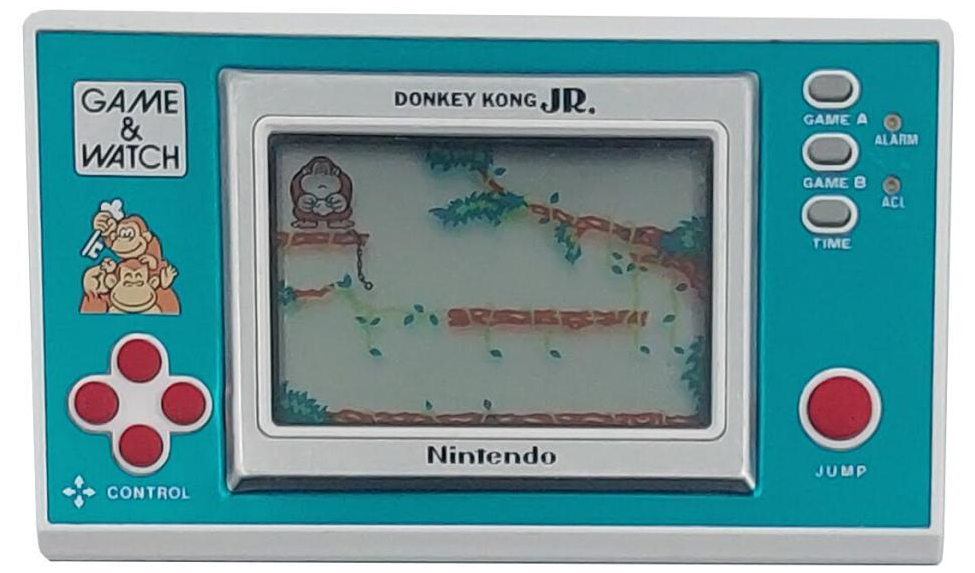
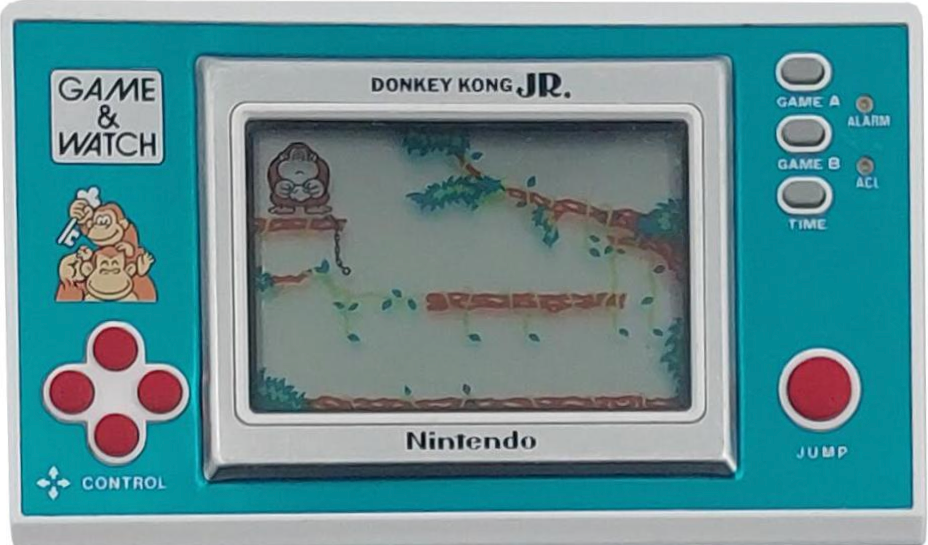
Adjustment to device image + lcd overlay

diff --git a/main.py b/main.py
@@ -41,6 +41,10 @@ class App:
         self.bg = pg.image.load(os.path.join(
             "img", "EmptyScreen.png")).convert()
 
+        # Semi-transparent LCD tint (grey-green) over the game area
+        self.lcd_overlay = pg.Surface((WIDTH, HEIGHT), pg.SRCALPHA)
+        self.lcd_overlay.fill((114, 129, 122, 128))  # grey-green, alpha=90/255
+
         self.game_surface.blit(self.bg, [0, 0])
 
         self.missed_sound = pg.mixer.Sound(os.path.join("sounds", "Missed.wav"))
@@ -57,6 +61,7 @@ class App:
 
     def draw(self):
         self.game.draw()
+        self.game_surface.blit(self.lcd_overlay, (0, 0))
         self.screen.blit(self.device_frame, (0, 0))
         self.screen.blit(self.game_surface, self.device_offset)
         pg.display.flip()

diff --git a/settings.py b/settings.py
@@ -4,7 +4,7 @@ HEIGHT = 480
 
 # Device frame: raw screen area measured in img/Device.png (x, y, w, h)
 # Device.png will be scaled at runtime so this area maps exactly to WIDTH x HEIGHT
-DEVICE_SCREEN_RAW = (270, 133, 437, 291)
+DEVICE_SCREEN_RAW = (247, 119, 441, 288)
 FPS = 30
 SCORE_DELAY = 10
 NUMBER_OF_LIFE = 3
